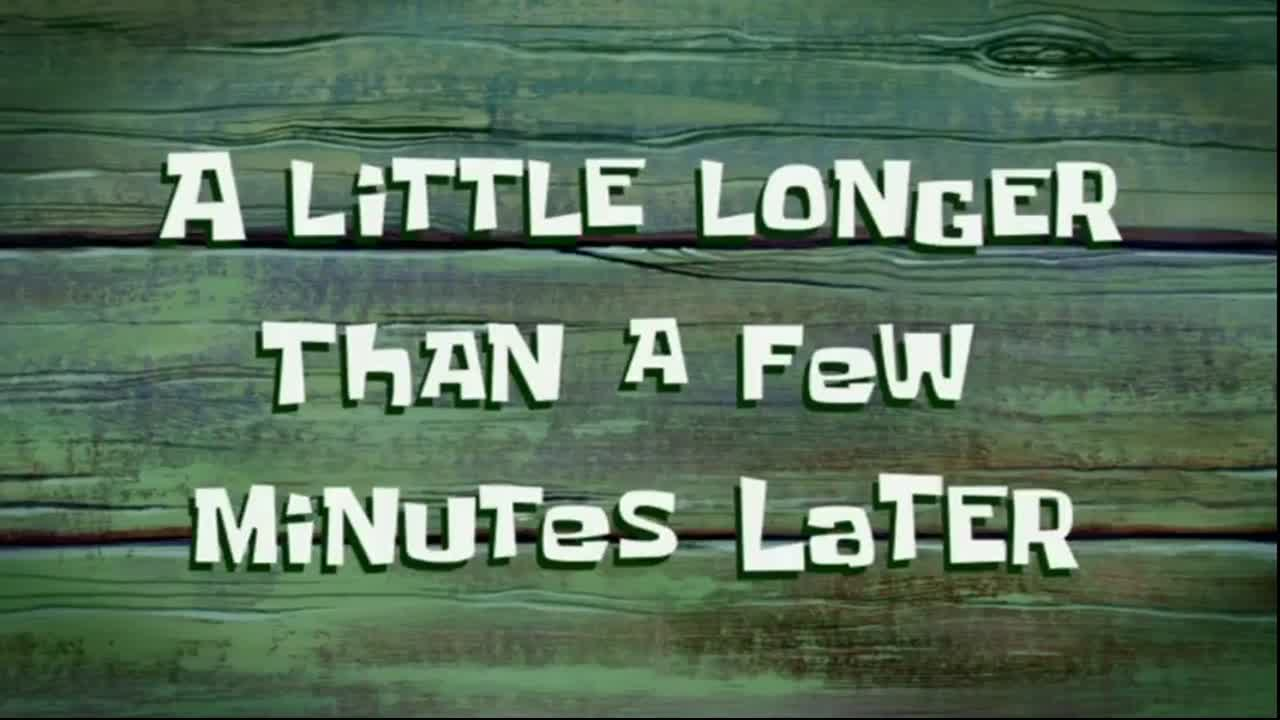
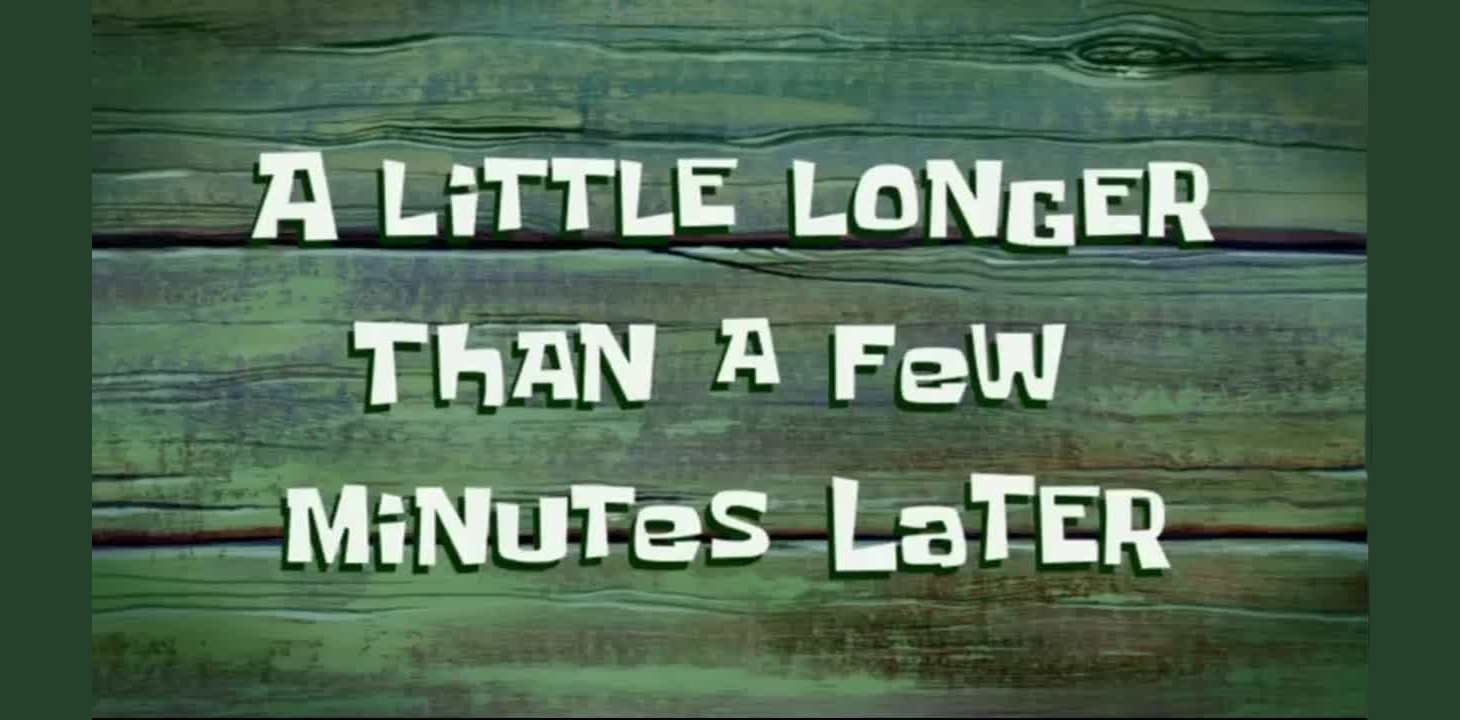
update hackathon blog

diff --git a/_sass/main.scss b/_sass/main.scss
@@ -1,0 +1,24 @@
+@charset "utf-8";
+@import url('https://fonts.googleapis.com/css?family=Open+Sans:light,bold');
+
+$sans-serif: "Open Sans", -apple-system, BlinkMacSystemFont, "Roboto", "Segoe UI",
+    "Helvetica Neue", "Lucida Grande", Arial, sans-serif;
+$text-color: white;
+
+.hackathon-body .page {
+    padding-right: 100px !important;
+}
+
+.page-head {
+    color: rgb(209, 250, 255);
+}
+
+.sidebar .nav__list {
+    color: rgb(209, 250, 255);
+    padding-top: 2rem;
+    border-top: 1px solid #51555d;
+
+    li:hover {
+        color: rgba(98, 121, 255, 0.699)
+    }
+}

diff --git a/_sass/minimal-mistakes/_variables.scss b/_sass/minimal-mistakes/_variables.scss
@@ -15,7 +15,7 @@ $indent-var: 1.3em !default;
 /* system typefaces */
 $serif: Georgia, Times, serif !default;
 $sans-serif: -apple-system, BlinkMacSystemFont, "Roboto", "Segoe UI",
-  "Helvetica Neue", "Lucida Grande", Arial, sans-serif !default;
+   "Helvetica Neue", "Lucida Grande", Arial, sans-serif !default;
 $monospace: Monaco, Consolas, "Lucida Console", monospace !default;
 
 /* sans serif typefaces */

diff --git a/_sass/minimal-mistakes.scss b/_sass/minimal-mistakes.scss
@@ -4,6 +4,9 @@
  * Licensed under MIT (https://github.com/mmistakes/minimal-mistakes/blob/master/LICENSE)
 */
 
+
+@import "./main.scss";
+
 /* Variables */
 @import "./minimal-mistakes/variables";
 
@@ -38,5 +41,3 @@
 @import "./minimal-mistakes/archive";
 @import "./minimal-mistakes/sidebar";
 @import "./minimal-mistakes/print";
-
-@import "./main2.scss"

diff --git a/_sass/minimal-mistakes/_sidebar.scss b/_sass/minimal-mistakes/_sidebar.scss
@@ -40,7 +40,7 @@
     width: calc(#{$right-sidebar-width} - 1em);
   }
 
-  > * {
+  >* {
     margin-top: 1em;
     margin-bottom: 1em;
   }
@@ -172,6 +172,7 @@
     margin-bottom: 10px;
   }
 }
+
 .sidebar .author__name {
   font-family: $sans-serif;
   font-size: $type-size-5;
@@ -350,4 +351,3 @@
     margin-right: initial;
   }
 }
-

diff --git a/_posts/2022-09-10-hackathon.md b/_posts/2022-09-10-hackathon.md
@@ -3,7 +3,8 @@ title: "The hackathon coding bonanza"
 categories: 
     - AI/ML
 tags: 
-    - AI
+    - sentiment analysis
+    - abuse analysis
     - hugging face
     - python
 header: 
@@ -28,8 +29,9 @@ We finally decided on making a review management system, (think of Disqus but fo
 </p>
 <p style="font-size: medium;">The actual backend 😜</p>
 
+I took up this task. My aim was to make a single endpoint with input as a list of strings and the output being the sentiment analysis (Good/Bad score) and offensive segments score of the input strings.
 #### Environment Setup
-Before starting with the model selection, inference setup etc, we need to setup the docker environment. For that I made a docker compose container, since using it is easier than remembering the docker commands to run and build....
+Before starting with the model selection, inference setup etc, we need to setup the docker environment. For that I made a docker compose container, since using it is easier than remembering the docker commands to run and build. The docker compose is a simple setup since we have a single service -
 <p style="font-size: medium; margin-bottom:4px; color: wheat;">docker-compose.yml</p>
 ```yml
 version: "3.3"
@@ -38,6 +40,15 @@ services:
     ports:
       - "9000:5000"
     image: mlapp
+```
+Next we need to add the requirements of the app. Since I have already implemented this I am aware of the requirements, but usually one adds the requirements along the way.
+<p style="font-size: medium; margin: 16px 0 4px 0; color: wheat;">requirements.txt</p>
+```
+Flask==2.3.2
+huggingface-hub==0.16.4
+requests==2.26.0
+transformers==4.31.0
+detoxify==0.5.0
 ```
 <p style="font-size: medium; margin: 16px 0 4px 0; color: wheat;">Dockerfile</p>
 ```dockerfile
@@ -107,11 +118,15 @@ def inference_engine():
 # Run the flask app
 ```  
 
-but the response times were too long.  
+but the response times were too long. So like any software development process I had to iterate again for improvement.
 
-I needed to get to the root of this issue and find the step taking the most time. Logging the time at each step is the way I did this.
+But first I needed to get to the root of this issue and find the step taking the most time. Logging each step is the way I did this.
 
-What I found was that most of the time was spent on classifying the texts, maybe a lighter model would be faster but there might be an accuracy tradeoff.
+What I found was that most of the time was spent on classifying the texts, understandable but I was sure it could be optimized.
+
+### Optimization
+
+One way of optimization may be a lighter model but there might be an accuracy tradeoff, also hunting for a model and changing the implementation (I couldn't find a replacement on hugging face at the time) is not a good use of the limited time.
 
 Another way to make the classification faster is to run them in parallel (If your machine supports and has the bandwidth for it).  
 Currently the flask server has to listen to the requests, compute the sentiment and abuse analysis, all on the same thread sequentially. There should be a significant speedup by using multiple threads/processes for classification.  
@@ -125,7 +140,7 @@ That is - multiple processes!!
 <p style="font-size: medium;">The next thread only runs when the current thread is IO/network blocked</p>
 
 In the python interpreter there is a Global Interpreter Lock (GIL) which ensures that only one thread runs in the interpreter at once. For a detailed explanation of GIL, read [this presentation](https://www.dabeaz.com/python/UnderstandingGIL.pdf?ref=blog.floydhub.com)
-So for CPU intensive applications multiple processes are needed...  
+So for CPU intensive applications multiple processes are the only choice...  
 
 So, lets say we made 2 processes, then we need to setup communication between them. There are 2 methods to achieve this, shared memory or message passing, 
 I chose to communicate through queues (message passing). Since I didn't know how to use locks in python and because Queues are easier to implement and manage.  
@@ -242,6 +257,6 @@ def inference_engine():
 
 
 ### Post notes
-* there are other lighter alternatives for sentiment analysis like MobileBert (90mb), it is easy to replace the model if needed. 
-* similarly Detoxify also has lightweight models like `original-small` etc, which can be changed as well
-* running both models at once might hit the RAM limits on hosted machines
+* There are other lighter alternatives for sentiment analysis like MobileBert (90mb), it is easy to replace the model if needed. 
+* Detoxify also has lightweight models like `original-small` etc, which can be changed as well
+* Running both models at once might hit the RAM limits on hosted machines

diff --git a/_posts/2021-08-15-few-minutes-later.md b/_posts/2021-08-15-few-minutes-later.md
@@ -5,7 +5,7 @@ categories:
 tags: 
     - Rant
 header: 
-    image: /assets/images/a_few_moments_later2.jpg
+    image: /assets/images/a_few_moments_later.jpg
 # excerpt: S 
 sidebar:
     nav : job
